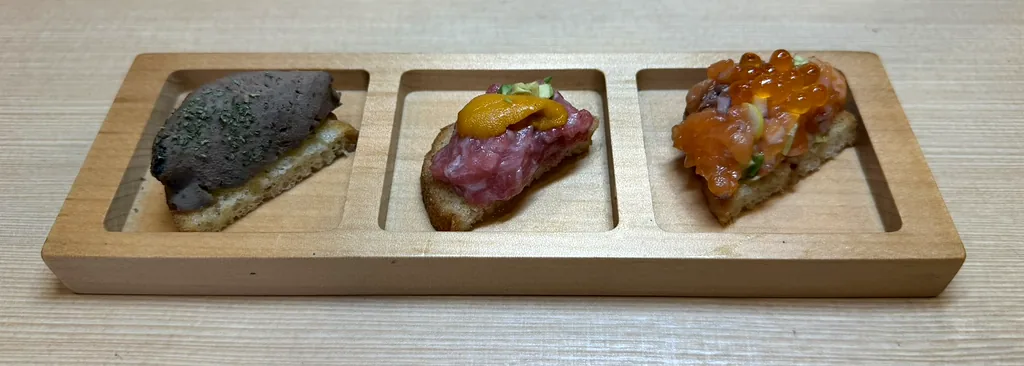
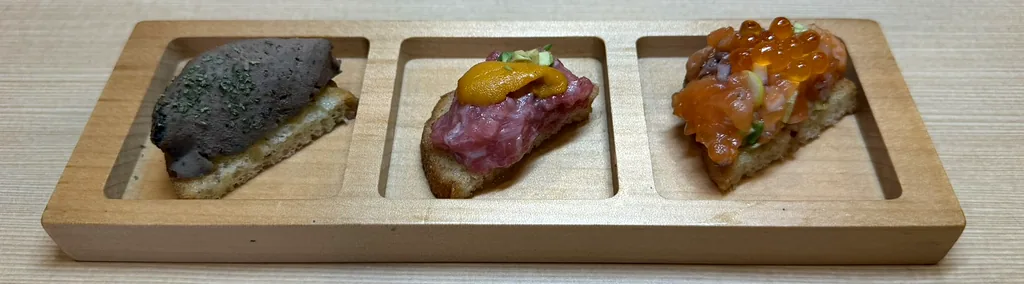
Shorter tsumami strip; move sashimi into carousel (renamed to Shiki no oryori); remove menu-page sashimi

diff --git a/pages/index.js b/pages/index.js
@@ -68,16 +68,16 @@ export default function Home({ jsonLd }) {
               <div key={paragraph} className={`intro-row${i % 2 === 1 ? " intro-row--reverse" : ""}`}>
                 <div className={`intro-photo intro-photo--side${Array.isArray(IMAGES.introSide[i]) ? " intro-photo--tall" : ""}`}>
                   {Array.isArray(IMAGES.introSide[i]) ? (
-                    <PhotoCarousel bases={IMAGES.introSide[i]} label={i === 0 ? "四季の前菜の写真" : "握りの写真"} />
+                    <PhotoCarousel bases={IMAGES.introSide[i]} label={i === 0 ? "四季のお料理の写真" : "握りの写真"} />
                   ) : (
                     <Photo
                       base={IMAGES.introSide[i]}
                       widths={[640, 870]}
-                      label={`写真（${i === 0 ? "前菜・熟成魚" : "シャリ・握り"}）`}
+                      label={`写真（${i === 0 ? "四季のお料理" : "シャリ・握り"}）`}
                     />
                   )}
                   <span className="intro-photo-tag" aria-hidden="true">
-                    <SmallParticles text={i === 0 ? "四季の前菜" : "熟成と赤酢のシャリ"} />
+                    <SmallParticles text={i === 0 ? "四季のお料理" : "熟成と赤酢のシャリ"} />
                   </span>
                 </div>
                 <p className="intro-body intro-body--side">{paragraph}</p>

diff --git a/styles/globals.css b/styles/globals.css
@@ -3160,6 +3160,8 @@ h4.drink-group-title {
   display: block;
   width: 100%;
   height: auto;
+  max-height: 420px; /* 大画面で大きくなり過ぎないように */
+  object-fit: cover;
 }
 
 /* ---- メインビジュアルの文字：助詞を小さくしてメリハリをつける ---- */
@@ -3298,31 +3300,4 @@ h4.drink-group-title {
   .intro-photo--side.intro-photo--tall {
     flex-basis: 38%;
   }
-}
-
-/* お品書きページのお刺身の写真（正方形・中央） */
-.menu-photo {
-  width: min(440px, 100%);
-  margin: 40px auto 0;
-  text-align: center;
-}
-
-.menu-photo img {
-  display: block;
-  width: 100%;
-  height: auto;
-  aspect-ratio: 1 / 1;
-  object-fit: cover;
-  border-radius: 22px;
-  border: 5px solid var(--color-surface);
-  box-shadow:
-    0 0 0 1px var(--color-primary-light),
-    var(--shadow-md);
-}
-
-.menu-photo figcaption {
-  margin-top: 10px;
-  font-size: 0.9rem;
-  letter-spacing: 0.2em;
-  color: var(--color-text-muted);
 }

diff --git a/pages/menu.js b/pages/menu.js
@@ -5,14 +5,12 @@ import AlaCarte from "../components/AlaCarte";
 import DrinksMenu from "../components/DrinksMenu";
 import SeasonalSlider from "../components/SeasonalSlider";
 import MenuSlider from "../components/MenuSlider";
-import Photo from "../components/Photo";
 import {
   SITE,
   MENU_GUIDE,
   MENU_NOTE,
   COURSE_GROUPS,
   ALACARTE,
-  IMAGES,
 } from "../lib/siteConfig";
 import { buildBreadcrumbJsonLd } from "../lib/structuredData";
 
@@ -53,10 +51,6 @@ export default function Menu({ jsonLd }) {
           <h2 className="section-title">{COURSE_GROUPS.regular.title}</h2>
           <MenuSlider kind="food" label="料理メニューの画像" />
           <CourseCards group="regular" withCta slider />
-          <figure className="menu-photo">
-            <Photo base={IMAGES.sashimi} widths={[480, 900]} />
-            <figcaption>お刺身</figcaption>
-          </figure>
         </div>
       </section>
 

diff --git a/lib/siteConfig.js b/lib/siteConfig.js
@@ -102,12 +102,11 @@ export const IMAGES = {
   // 本文の2・3段落目の横に並べる写真（空のあいだは仮表示の枠）。推奨 1200×900px（横長 4:3）
   // [0] 前菜・熟成魚の写真　[1] シャリ・握りの写真　例 "/images/intro/intro-02"
   // 配列にすると、◀▶ボタンで切り替わるスライドになる（[1] は握り8枚）。
-  // お品書きページに置くお刺身の写真（正方形。-480 / -900）
-  sashimi: "/images/menu/sashimi",
   introSide: [
     [
       "/images/intro/intro-02",
       "/images/intro/intro-02-i", // うに
+      "/images/intro/intro-02-k", // お刺身
       "/images/intro/intro-02-f",
       "/images/intro/intro-02-b",
       "/images/intro/intro-02-c",

diff --git a/scripts/process-photos.py b/scripts/process-photos.py
@@ -28,7 +28,8 @@ def enhance(im, b=1.06, c=1.06, s=1.10):
 
 # 切り替え写真は、器の中心と大きさをそろえて、切り替えたときに目線が動かないようにする（拡大率）
 ZOOM = {"intro/intro-02": 1.04, "intro/intro-02-c": 1.28, "intro/intro-02-e": 1.25,
-        "intro/intro-02-g": 1.5, "intro/intro-02-h": 1.2, "intro/intro-02-i": 1.6, "intro/intro-02-j": 1.05}
+        "intro/intro-02-g": 1.5, "intro/intro-02-h": 1.2, "intro/intro-02-i": 1.6, "intro/intro-02-j": 1.05,
+        "intro/intro-02-k": 1.08}
 
 
 def crop_ratio(im, ratio, cx=0.5, cy=0.5, zoom=1.0):
@@ -65,8 +66,8 @@ JOBS = [
     ("intro/intro-02-h", "85696608", 3 / 4, 0.505, 0.505, [720, 480]),  # 汁物
     ("intro/intro-02-i", "85696647", 3 / 4, 0.48, 0.54, [720, 480]),   # うに（グラス）
     ("intro/intro-02-j", "85696716", 3 / 4, 0.46, 0.53, [720, 480]),   # スイーツ
-    ("menu/sashimi", "85688409", 1.0, 0.5, 0.6, [900, 480]),           # お刺身（お品書きページ）
-    ("band/strip-01", "85688384", 2.8, 0.5, 0.52, [1600, 1024, 640]),  # 横長の帯（おつまみ三種）
+    ("intro/intro-02-k", "85688409", 3 / 4, 0.5, 0.6, [720, 480]),   # お刺身
+    ("band/strip-01", "85688384", 3.6, 0.5, 0.505, [1600, 1024, 640]),  # 横長の帯（おつまみ三種）
 ]
 # 単品の寿司（メニューの横スライド）。並び順＝掲載順
 SUSHI = ["85696616", "85696611", "85696670", "85696628",
